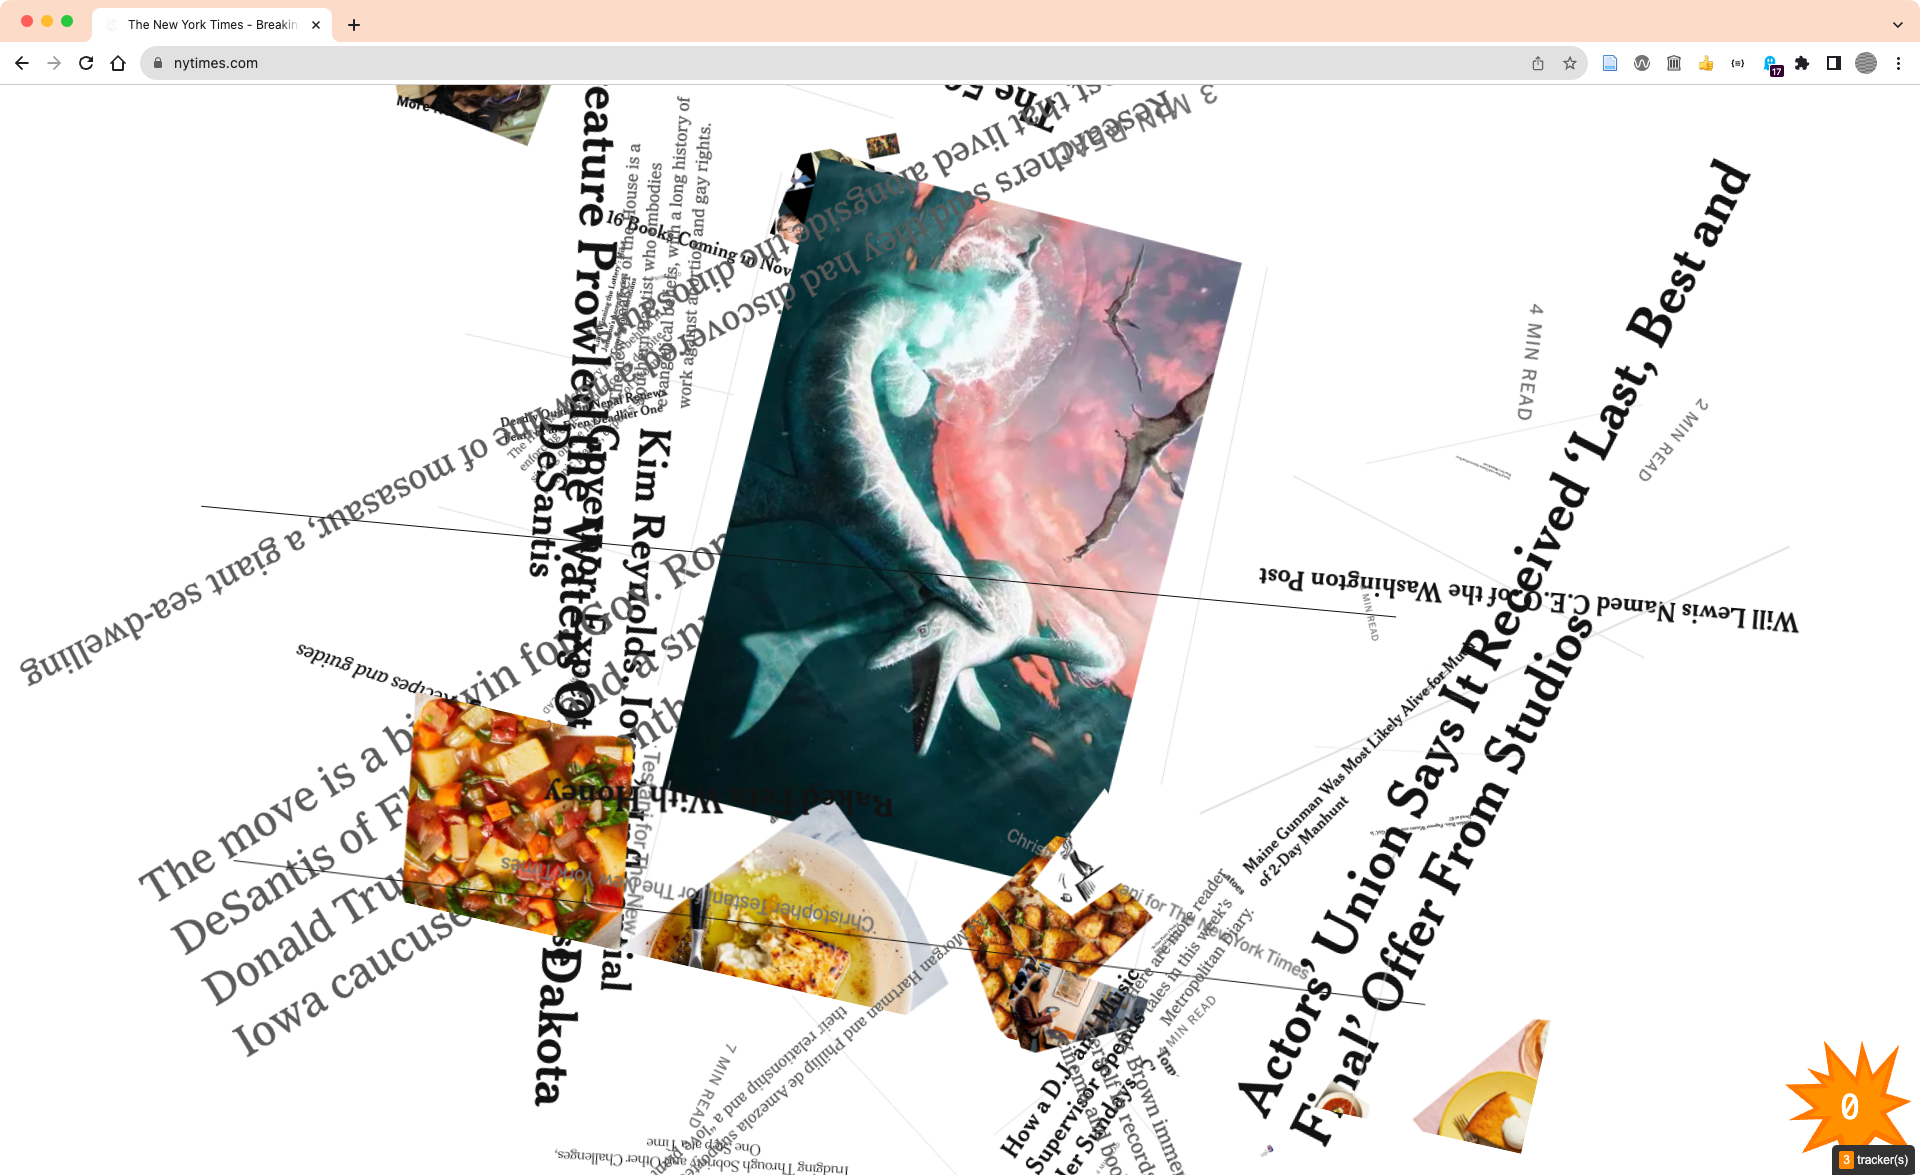
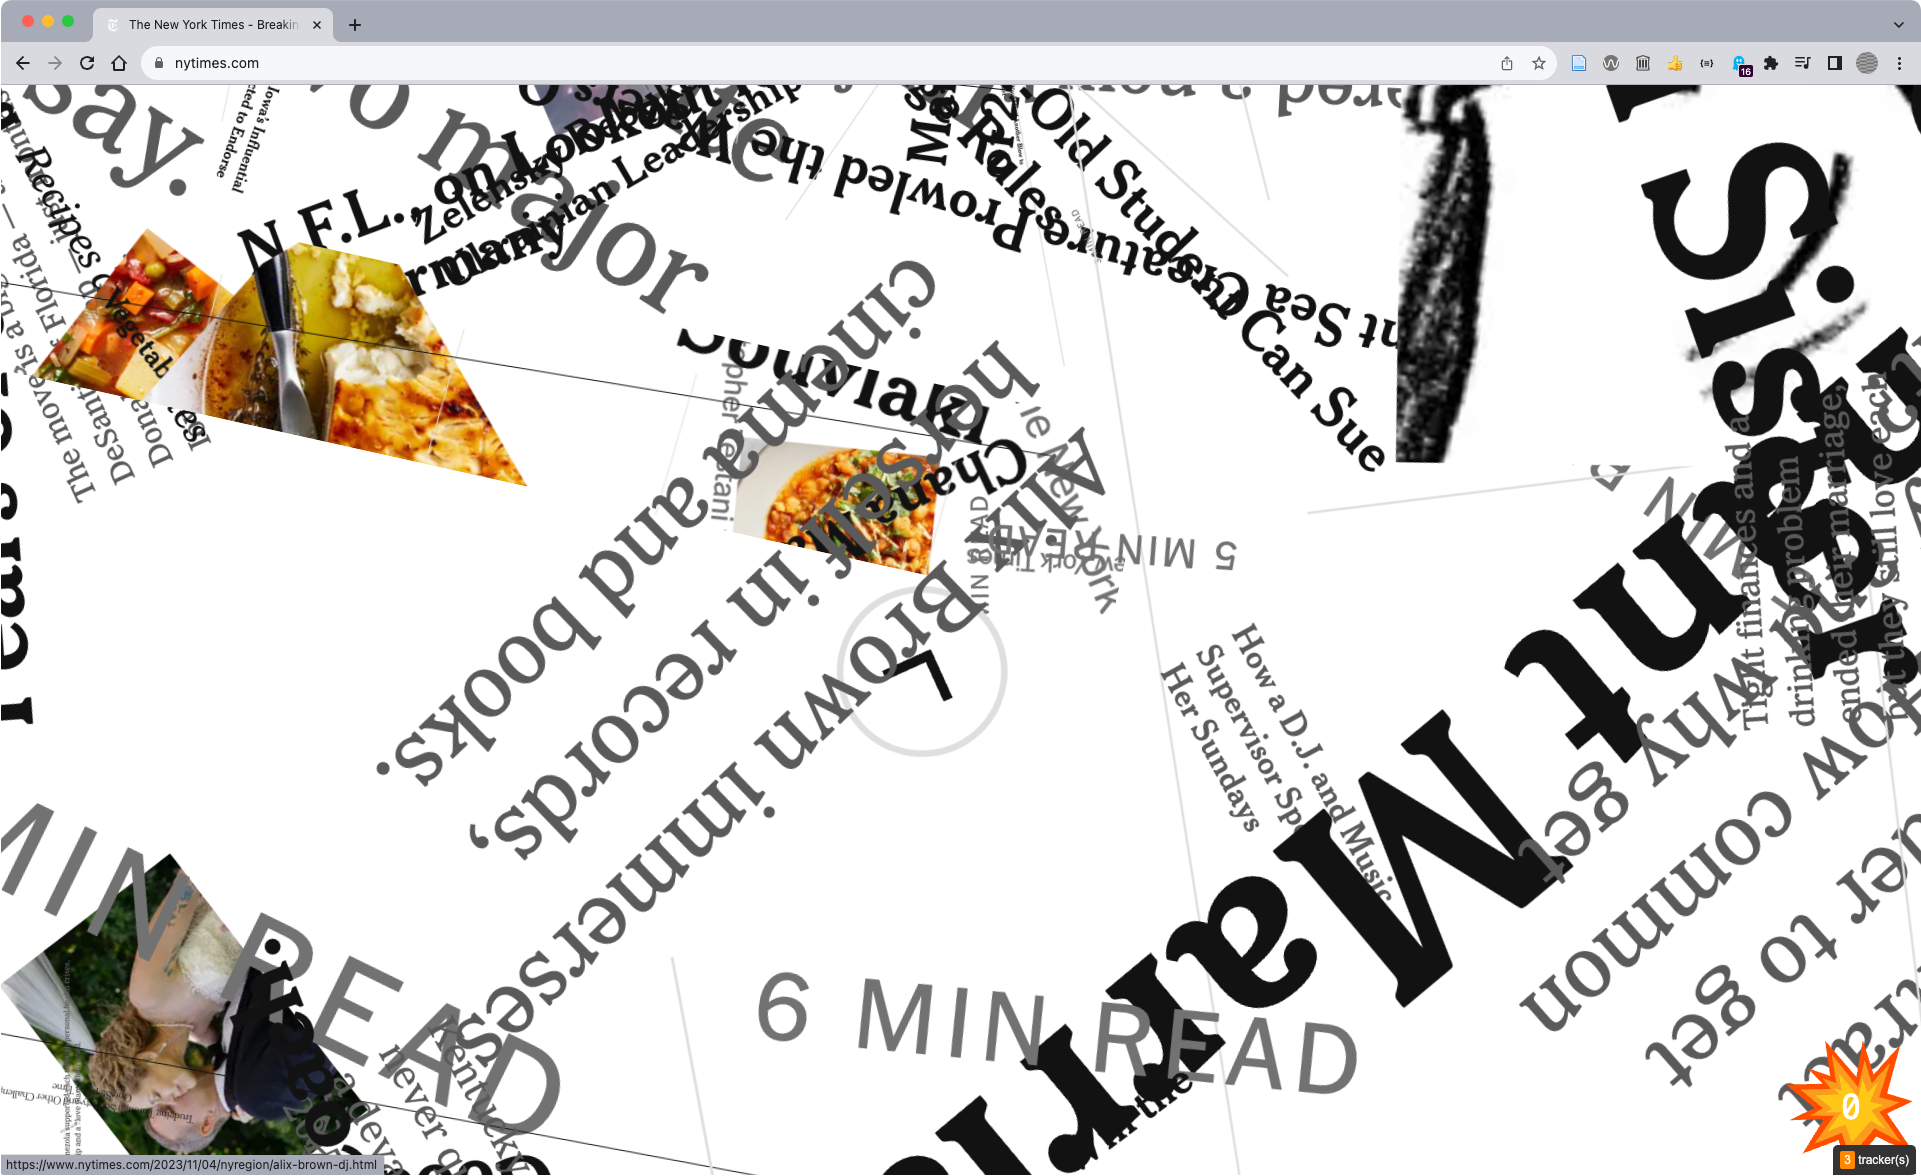
Adds documentation

diff --git a/extension/explode-tutorial-final/assets/js/explode.js b/extension/explode-tutorial-final/assets/js/explode.js
@@ -22,14 +22,15 @@ function explodeThePage() {
 			return Math.random() * randomRange(-360, 360);
 		},
 		translateX: function() {
-			return Math.random() * randomRange(-50,50);
+			return Math.random() * randomRange(-100,100);
 		},
 		translateY: function() {
-			return Math.random() * randomRange(-50,50);
+			return Math.random() * randomRange(-100,100);
 		},
 		scale: function() {
-			return Math.random() * 2;
-		}
+			return Math.random() * 3;
+		},
+        easing: 'spring(1, 80, 10, 0)'
 	});
 	// explode main nodes just a little
 	anime({
@@ -42,7 +43,8 @@ function explodeThePage() {
 		},
 		translateY: function() {
 			return Math.random() * 40;
-		}
+        },
+        easing: 'spring(1, 80, 10, 0)'
 	});
 	// add audio to play explosion sound
 	var audio = new Audio(chrome.runtime.getURL('assets/sounds/explode.mp3'));
